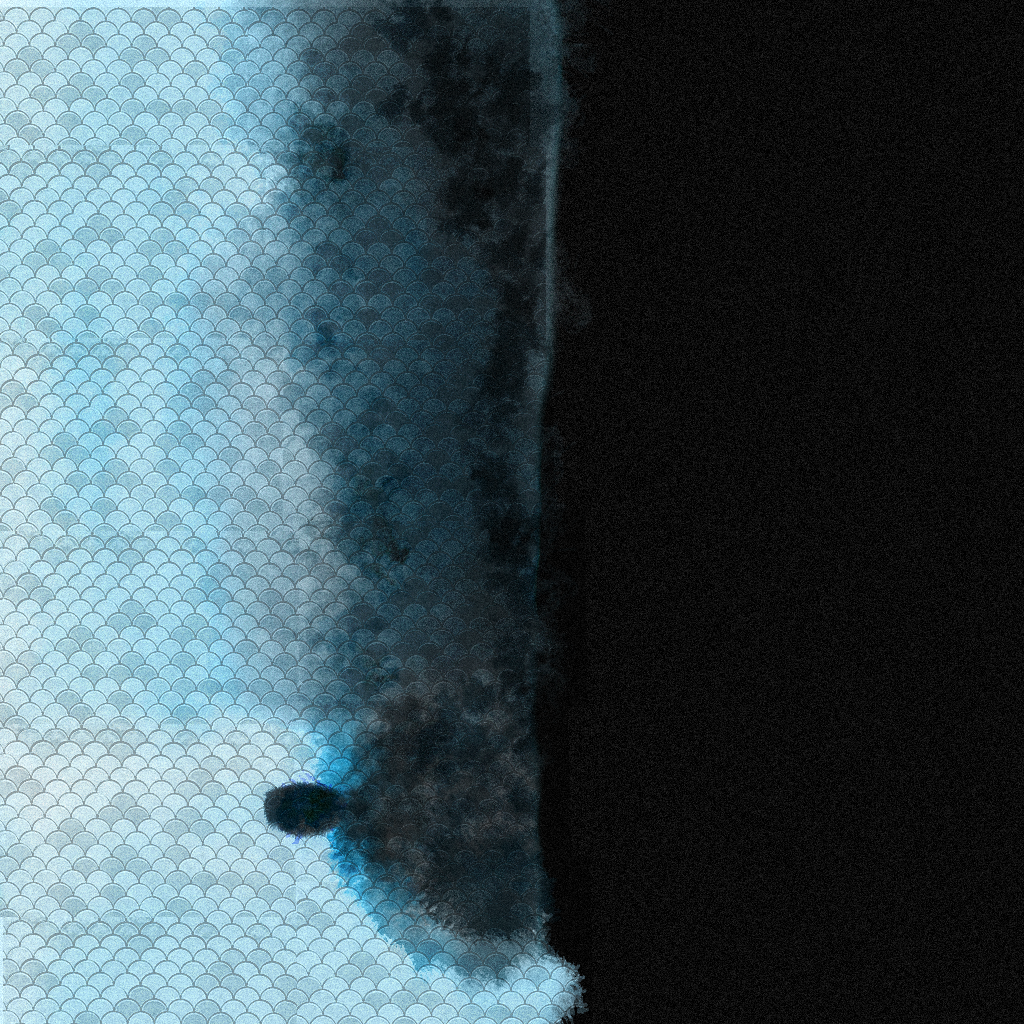
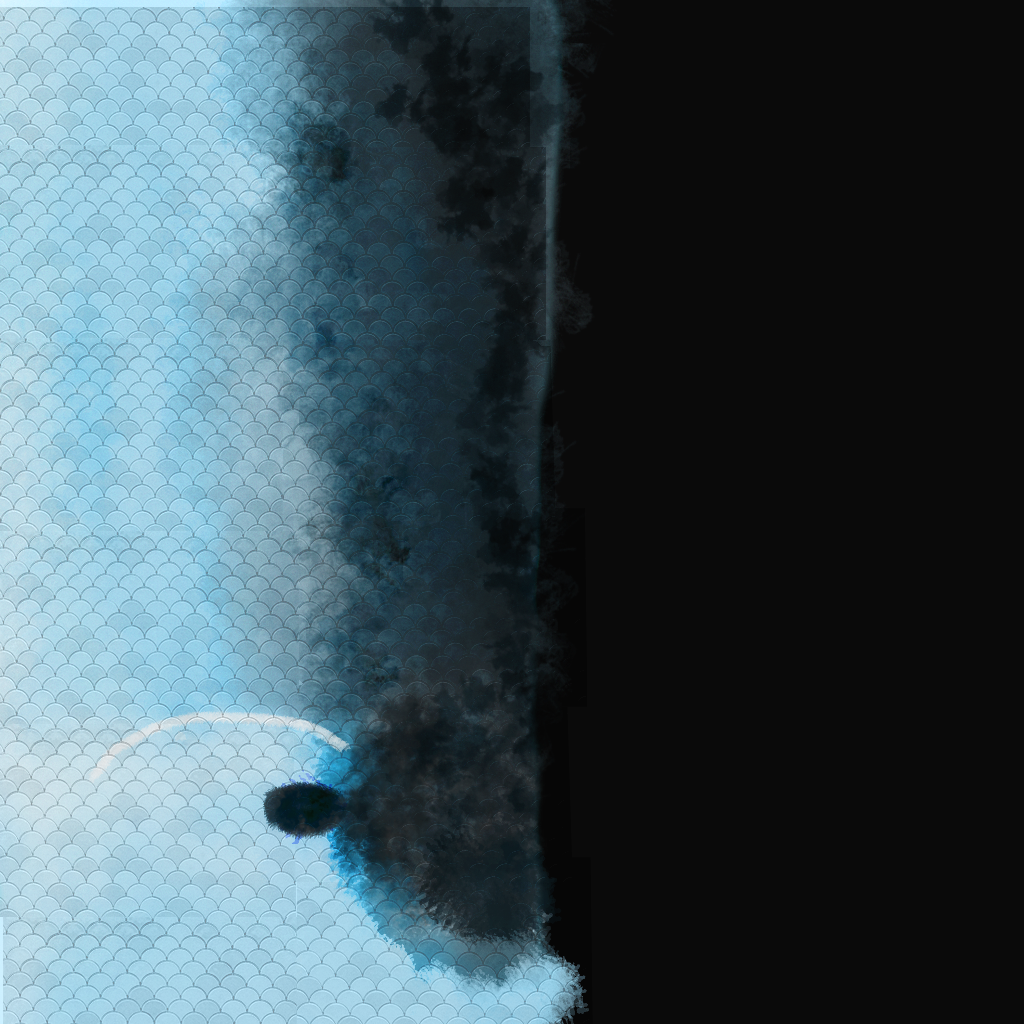
Rework fish animation

Changed region(s): [[0.0, 0.0, 0.5312, 1.0]]

diff --git a/src/components/components.cpp b/src/components/components.cpp
@@ -163,48 +163,50 @@ loadGeometry(const tinyobj::ObjReader& reader, GLuint& vertexBufferID, GLuint& v
 	return true;
 }
 
-bool loadTextures(const tinyobj::ObjReader& reader, std::map<std::string, GLuint>& textures) {
-	auto materials = reader.GetMaterials();
+bool loadTextures(const tinyobj::ObjReader &reader, std::map<std::string, GLuint> &textures) {
+    auto materials = reader.GetMaterials();
 
-	for (auto& material : materials) {
-		// Only load the texture if it is not already loaded
-		if (material.diffuse_texname.length() == 0) continue;
-		if (textures.find(material.diffuse_texname) != textures.end()) continue;
+    for (auto &material : materials) {
+        // Only load the texture if it is not already loaded
+        if (material.diffuse_texname.length() == 0) continue;
+        if (textures.find(material.diffuse_texname) != textures.end()) continue;
 
-		GLuint texture_id;
-		glGenTextures(1, &texture_id);
-		glBindTexture(GL_TEXTURE_2D, texture_id);
+        GLuint texture_id;
+        glGenTextures(1, &texture_id);
+        glBindTexture(GL_TEXTURE_2D, texture_id);
 
-		glTexParameteri(GL_TEXTURE_2D, GL_TEXTURE_WRAP_S, GL_REPEAT);
-		glTexParameteri(GL_TEXTURE_2D, GL_TEXTURE_WRAP_T, GL_REPEAT);
-		glTexParameteri(GL_TEXTURE_2D, GL_TEXTURE_MIN_FILTER, GL_LINEAR);
-		glTexParameteri(GL_TEXTURE_2D, GL_TEXTURE_MAG_FILTER, GL_LINEAR);
+        glTexParameteri(GL_TEXTURE_2D, GL_TEXTURE_WRAP_S, GL_REPEAT);
+        glTexParameteri(GL_TEXTURE_2D, GL_TEXTURE_WRAP_T, GL_REPEAT);
+        glTexParameteri(GL_TEXTURE_2D, GL_TEXTURE_MIN_FILTER, GL_LINEAR);
+        glTexParameteri(GL_TEXTURE_2D, GL_TEXTURE_MAG_FILTER, GL_LINEAR);
 
-		int components;
-		int image_width, image_height;
-		uint8_t* image = stbi_load(material.diffuse_texname.c_str(), &image_width, &image_height, &components, STBI_default);
-		if (!image) {
-			std::cerr << "Unable to load texture: " << material.diffuse_texname << std::endl;
-			exit(1);
-		}
-		else {
-			std::cout << "Loaded texture " << texture_id << ": " << material.diffuse_texname << std::endl;
-		}
+        int components;
+        int image_width, image_height;
+        uint8_t *image = stbi_load(material.diffuse_texname.c_str(), &image_width, &image_height, &components, STBI_default);
+        if (!image) {
+            std::cerr << "Unable to load texture: " << material.diffuse_texname << std::endl;
+            exit(1);
+        } else {
+            std::cout << "Loaded texture " << texture_id << ": " << material.diffuse_texname << std::endl;
+        }
 
-		if (components == 3)
-			glTexImage2D(GL_TEXTURE_2D, 0, GL_RGB, image_width, image_height, 0, GL_RGB, GL_UNSIGNED_BYTE, image);
-		else if (components == 4)
-			glTexImage2D(GL_TEXTURE_2D, 0, GL_RGBA, image_width, image_height, 0, GL_RGBA, GL_UNSIGNED_BYTE, image);
-		else return false;
+        if (components == 3)
+            glTexImage2D(GL_TEXTURE_2D, 0, GL_RGB, image_width, image_height, 0, GL_RGB, GL_UNSIGNED_BYTE, image);
+        else if (components == 4)
+            glTexImage2D(GL_TEXTURE_2D, 0, GL_RGBA, image_width, image_height, 0, GL_RGBA, GL_UNSIGNED_BYTE, image);
+        else {
+            std::cerr << "Unable to load texture with " << components << " components: " << material.diffuse_texname << std::endl;
+            exit(1);
+        }
 
-		glGenerateMipmap(GL_TEXTURE_2D);
+        glGenerateMipmap(GL_TEXTURE_2D);
 
-		glBindTexture(GL_TEXTURE_2D, 0);
-		stbi_image_free(image);
-		textures.insert(std::make_pair(material.diffuse_texname, texture_id));
-	}
+        glBindTexture(GL_TEXTURE_2D, 0);
+        stbi_image_free(image);
+        textures.insert(std::make_pair(material.diffuse_texname, texture_id));
+    }
 
-	return true;
+    return true;
 }
 
 renderable::renderable(const std::string& model, const std::string& vertex, const std::string& fragment) {
@@ -253,8 +255,8 @@ void renderable::render(position pos, const glm::mat4& projectionMatrix, const g
 	modelMatrix[3][2] = pos.position.z;
 	glm::mat4 mvp = projectionMatrix * viewMatrix * modelMatrix;
 
-	GLuint mvpID = glGetUniformLocation(this->shaderProgramID, "MVP");
-	glUniformMatrix4fv(mvpID, 1, GL_FALSE, &mvp[0][0]);
+    GLuint mvpID = glGetUniformLocation(this->shaderProgramID, "mvp");
+    glUniformMatrix4fv(mvpID, 1, GL_FALSE, &mvp[0][0]);
 
 	// todo(arlyon) only set time once
 	GLuint timeID = glGetUniformLocation(this->shaderProgramID, "time");
